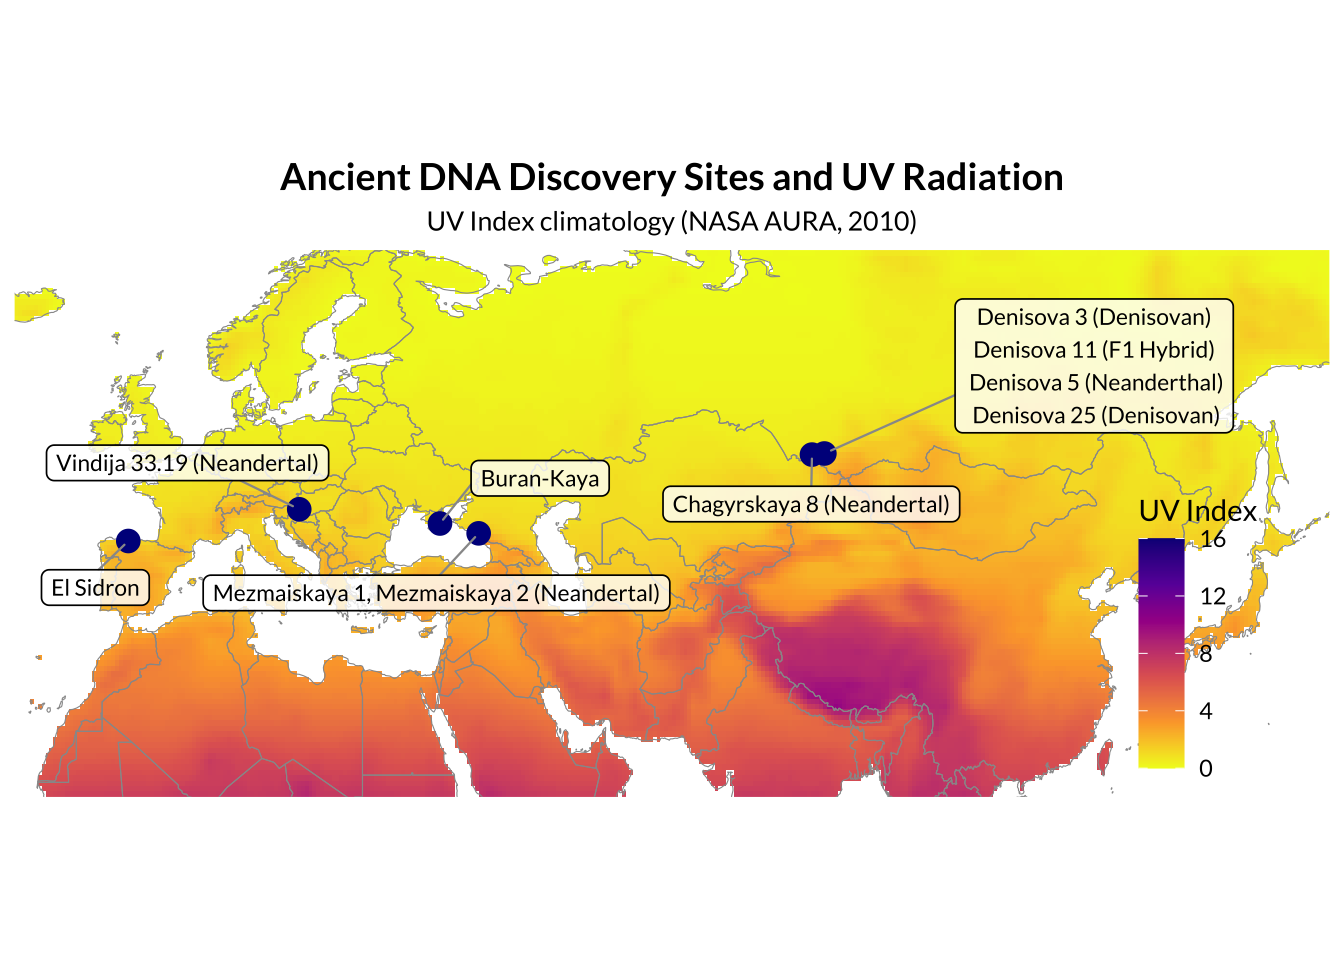
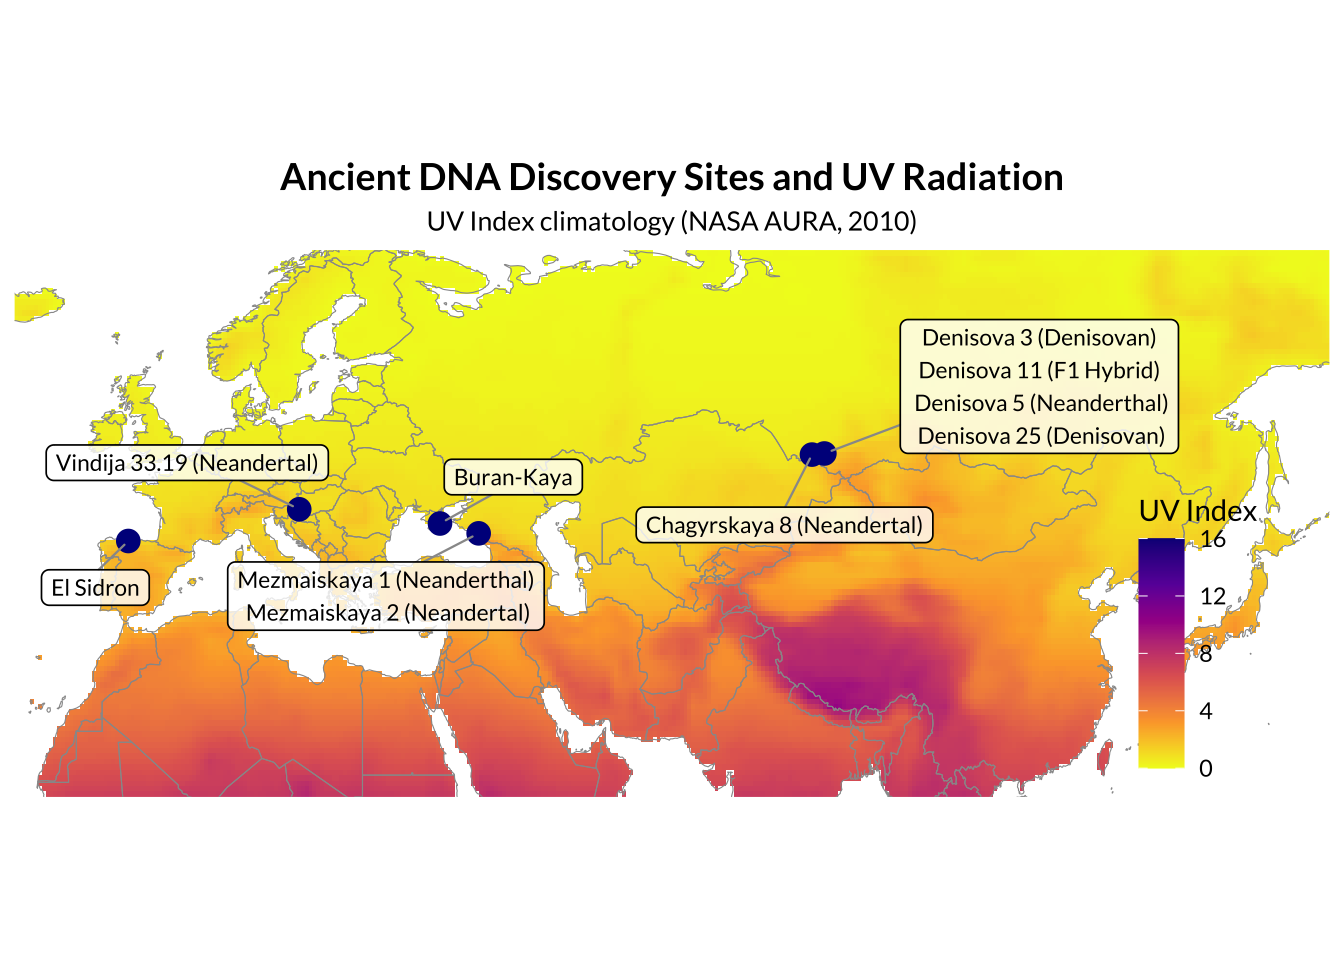
update callout

Changed region(s): [[0.1562, 0.3125, 0.9375, 0.6562], [0.0312, 0.4688, 0.25, 0.5]]

diff --git a/docs/introduction.html b/docs/introduction.html
@@ -356,7 +356,7 @@ div.tocify {
 <p>
 <button type="button" class="btn btn-default btn-workflowr btn-workflowr-report" data-toggle="collapse" data-target="#workflowr-report">
 <span class="glyphicon glyphicon-list" aria-hidden="true"></span>
-workflowr <span class="glyphicon glyphicon-ok text-success"
+workflowr <span class="glyphicon glyphicon-exclamation-sign text-danger"
 aria-hidden="true"></span>
 </button>
 </p>
@@ -367,8 +367,8 @@ aria-hidden="true"></span>
 </li>
 <li>
 <a data-toggle="tab" href="#checks"> Checks <span
-class="glyphicon glyphicon-ok text-success" aria-hidden="true"></span>
-</a>
+class="glyphicon glyphicon-exclamation-sign text-danger"
+aria-hidden="true"></span> </a>
 </li>
 <li>
 <a data-toggle="tab" href="#versions">Past versions</a>
@@ -377,13 +377,13 @@ class="glyphicon glyphicon-ok text-success" aria-hidden="true"></span>
 <div class="tab-content">
 <div id="summary" class="tab-pane fade in active">
 <p>
-<strong>Last updated:</strong> 2025-11-06
+<strong>Last updated:</strong> 2025-11-07
 </p>
 <p>
 <strong>Checks:</strong> <span
-class="glyphicon glyphicon-ok text-success" aria-hidden="true"></span> 7
+class="glyphicon glyphicon-ok text-success" aria-hidden="true"></span> 6
 <span class="glyphicon glyphicon-exclamation-sign text-danger"
-aria-hidden="true"></span> 0
+aria-hidden="true"></span> 1
 </p>
 <p>
 <strong>Knit directory:</strong> <code>PAINT/</code> <span
@@ -406,18 +406,21 @@ versions</em> tab lists the development history.
 <div class="panel panel-default">
 <div class="panel-heading">
 <p class="panel-title">
-<a data-toggle="collapse" data-parent="#workflowr-checks" href="#strongRMarkdownfilestronguptodate">
-<span class="glyphicon glyphicon-ok text-success"
-aria-hidden="true"></span> <strong>R Markdown file:</strong> up-to-date
-</a>
+<a data-toggle="collapse" data-parent="#workflowr-checks" href="#strongRMarkdownfilestronguncommittedchanges">
+<span class="glyphicon glyphicon-exclamation-sign text-danger"
+aria-hidden="true"></span> <strong>R Markdown file:</strong> uncommitted
+changes </a>
 </p>
 </div>
-<div id="strongRMarkdownfilestronguptodate"
+<div id="strongRMarkdownfilestronguncommittedchanges"
 class="panel-collapse collapse">
 <div class="panel-body">
-<p>Great! Since the R Markdown file has been committed to the Git
-repository, you know the exact version of the code that produced these
-results.</p>
+<p>The R Markdown file has unstaged changes. To know which version of
+the R Markdown file created these results, you’ll want to first commit
+it to the Git repo. If you’re still working on the analysis, you can
+ignore this warning. When you’re finished, you can run
+<code>wflow_publish</code> to commit the R Markdown file and build the
+HTML.</p>
 </div>
 </div>
 </div>
@@ -508,15 +511,15 @@ project makes it easier to run your code on other machines.</p>
 <div class="panel panel-default">
 <div class="panel-heading">
 <p class="panel-title">
-<a data-toggle="collapse" data-parent="#workflowr-checks" href="#strongRepositoryversionstrongahrefhttpsgithubcomlilyhealdPAINTtreeb2f5585b32c2ffa949a0ba700a50539bafa95deatargetblankb2f5585a">
+<a data-toggle="collapse" data-parent="#workflowr-checks" href="#strongRepositoryversionstrongahrefhttpsgithubcomlilyhealdPAINTtreec064b55067b1efd1b1eac5f56c5fba104ddfeb87targetblankc064b55a">
 <span class="glyphicon glyphicon-ok text-success"
 aria-hidden="true"></span> <strong>Repository version:</strong>
-<a href="https://github.com/lilyheald/PAINT/tree/b2f5585b32c2ffa949a0ba700a50539bafa95dea" target="_blank">b2f5585</a>
+<a href="https://github.com/lilyheald/PAINT/tree/c064b55067b1efd1b1eac5f56c5fba104ddfeb87" target="_blank">c064b55</a>
 </a>
 </p>
 </div>
 <div
[2 lines of base64/hex data omitted]
 class="panel-collapse collapse">
 <div class="panel-body">
 <p>
@@ -526,7 +529,7 @@ reproducibility.
 </p>
 <p>
 The results in this page were generated with repository version
-<a href="https://github.com/lilyheald/PAINT/tree/b2f5585b32c2ffa949a0ba700a50539bafa95dea" target="_blank">b2f5585</a>.
+<a href="https://github.com/lilyheald/PAINT/tree/c064b55067b1efd1b1eac5f56c5fba104ddfeb87" target="_blank">c064b55</a>.
 See the <em>Past versions</em> tab to see a history of the changes made
 to the R Markdown and HTML files.
 </p>
@@ -541,8 +544,12 @@ were generated:
 </p>
 <pre><code>
 Ignored files:
+    Ignored:    .RData
     Ignored:    .Rhistory
     Ignored:    data/neo_uvi.csv
+
+Unstaged changes:
+    Modified:   analysis/introduction.Rmd
 
 </code></pre>
 <p>
@@ -587,6 +594,23 @@ Message
 </tr>
 </thead>
 <tbody>
+<tr>
+<td>
+html
+</td>
+<td>
+<a href="https://rawcdn.githack.com/lilyheald/PAINT/cc7d1340bf0be2ac622464a1d0e61034511d650c/docs/introduction.html" target="_blank">cc7d134</a>
+</td>
+<td>
+Lily Heald
+</td>
+<td>
+2025-11-06
+</td>
+<td>
+updated figures
+</td>
+</tr>
 <tr>
 <td>
 Rmd
@@ -684,6 +708,7 @@ The following object is masked from &#39;package:tidyr&#39;:
 <pre><code>Loading required package: sysfonts
 Loading required package: showtextdb</code></pre>
 <pre class="r"><code>library(sysfonts)
+library(workflowr)
 
 font_add_google(&quot;Lato&quot;, &quot;lato&quot;)
 
@@ -743,6 +768,17 @@ Date
 <tbody>
 <tr>
 <td>
+<a href="https://github.com/lilyheald/PAINT/blob/cc7d1340bf0be2ac622464a1d0e61034511d650c/docs/figure/introduction.Rmd/init-1.png" target="_blank">cc7d134</a>
+</td>
+<td>
+Lily Heald
+</td>
+<td>
+2025-11-06
+</td>
+</tr>
+<tr>
+<td>
 <a href="https://github.com/lilyheald/PAINT/blob/13755f1e060b5dfc018433d93cf662132922e547/docs/figure/introduction.Rmd/init-1.png" target="_blank">13755f1</a>
 </td>
 <td>
@@ -769,7 +805,9 @@ names(uv_land_df) &lt;- c(&quot;lon&quot;, &quot;lat&quot;, &quot;UVIndex&quot;)
   samples = c(&quot;Denisova 3 (Denisovan)\nDenisova 11 (F1 Hybrid)\n Denisova 5 (Neanderthal)\n Denisova 25 (Denisovan)&quot;,
     &quot;Chagyrskaya 8 (Neandertal)&quot;,
     &quot;Vindija 33.19 (Neandertal)&quot;,
-    &quot;Mezmaiskaya 1, Mezmaiskaya 2 (Neandertal)&quot;, &quot;Buran-Kaya&quot;, &quot;El Sidron&quot;),
+    &quot;Mezmaiskaya 1 (Neanderthal)\n Mezmaiskaya 2 (Neandertal)&quot;, 
+    &quot;Buran-Kaya&quot;, 
+    &quot;El Sidron&quot;),
   lon  = c(84.7, 83.1, 16.8, 40, 35.0, -5.3), #E (+) W (-)
   lat  = c(51.4, 51.3, 46.3, 44.1, 45.0, 43.4) #N (+) S (-)
 )
@@ -834,6 +872,17 @@ Date
 </tr>
 </thead>
 <tbody>
+<tr>
+<td>
+<a href="https://github.com/lilyheald/PAINT/blob/cc7d1340bf0be2ac622464a1d0e61034511d650c/docs/figure/introduction.Rmd/plot-1.png" target="_blank">cc7d134</a>
+</td>
+<td>
+Lily Heald
+</td>
+<td>
+2025-11-06
+</td>
+</tr>
 <tr>
 <td>
 <a href="https://github.com/lilyheald/PAINT/blob/13755f1e060b5dfc018433d93cf662132922e547/docs/figure/introduction.Rmd/plot-1.png" target="_blank">13755f1</a>
